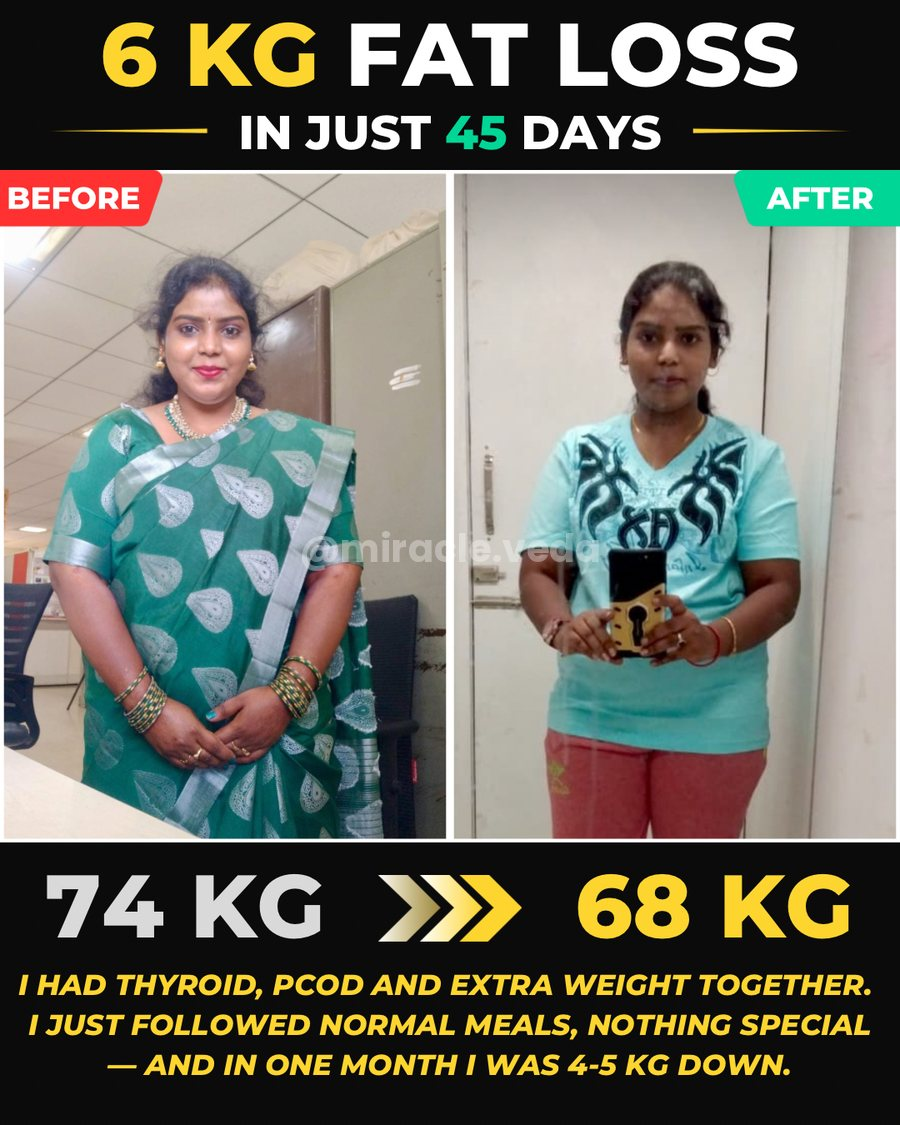
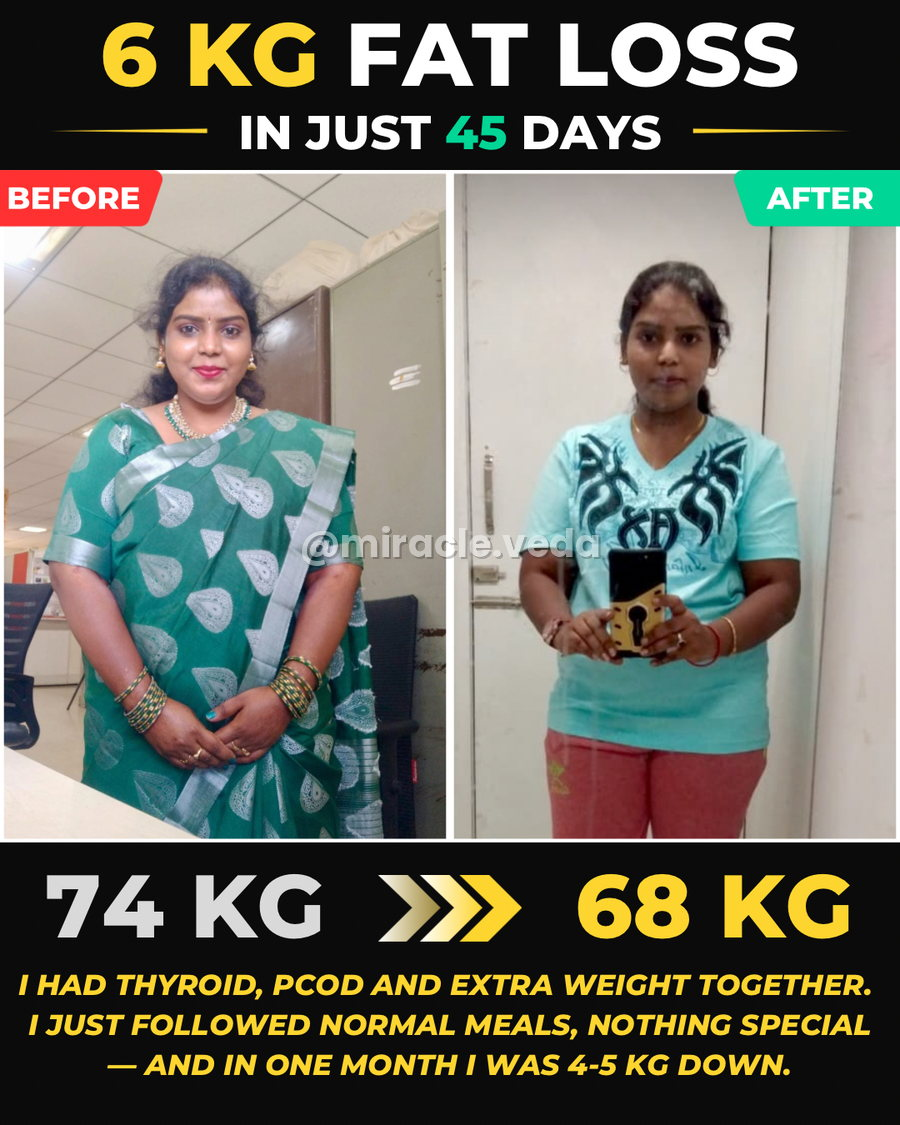
Soundarya watermark rebuilt with the same recipe as the other client cards

diff --git a/index.html b/index.html
@@ -2354,7 +2354,7 @@ src="https://www.facebook.com/tr?id=3144157445775942&ev=PageView&noscript=1"
 
             <div class="client-transformation-card">
                 <div class="transform-image">
-                    <img loading="lazy" decoding="async" src="wp-content/uploads/clients/soundarya.jpg?v=4" alt="Soundarya transformation — Miracle Veda client" width="900" height="1125">
+                    <img loading="lazy" decoding="async" src="wp-content/uploads/clients/soundarya.jpg?v=5" alt="Soundarya transformation — Miracle Veda client" width="900" height="1125">
                 </div>
                 <div class="client-name-tag">
                     <i class="fas fa-user-circle"></i> SOUNDARYA &middot; KARNATAKA
